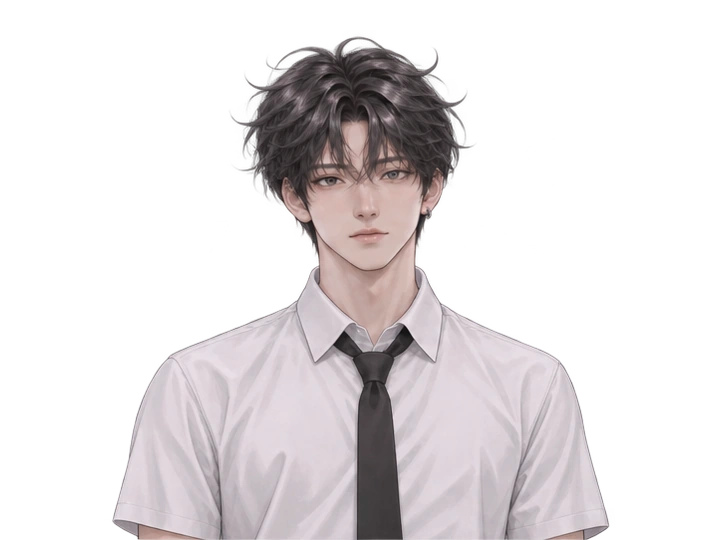
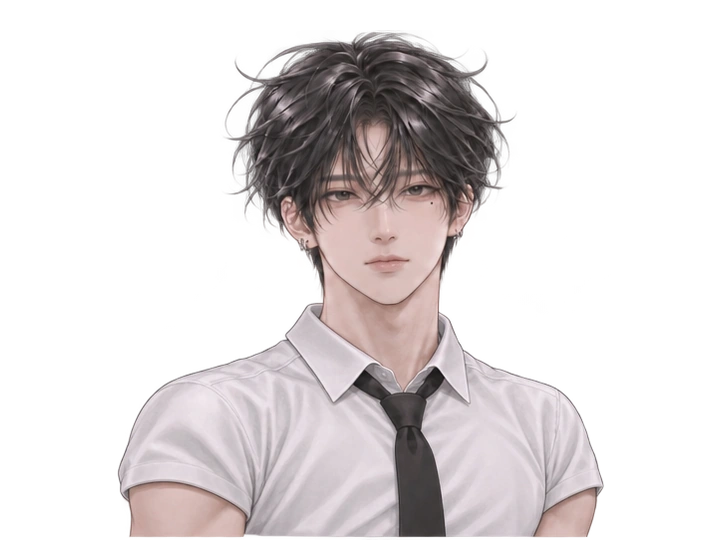
Standardize dialogue portraits and Taei proportions

Changed region(s): [[0.1528, 0.0593, 0.8556, 1.0]]

diff --git a/fantasy-rpg/desktop/ui/scene-stage.js b/fantasy-rpg/desktop/ui/scene-stage.js
@@ -11,30 +11,51 @@ const SceneStage=(()=>{
  const load=async url=>{if(typeof window!=='undefined'&&window.sceneArtAPI&&!url.startsWith('data:')){const r=await window.sceneArtAPI.asset(url);if(!r.ok)throw Error(r.error);url=r.data;}return new Promise((resolve,reject)=>{const im=new Image();im.onload=()=>resolve(im);im.onerror=()=>reject(Error('캐릭터 원화를 불러오지 못했습니다.'));im.src=url;});};
  function headDimensions(cw,ch,cropHeight){return{width:430,height:Math.round(cropHeight*ch/cw)};}
  function identityMode(characterId){return characters[characterId]?'integrated':'none';}
- // Sheet coordinates are measured in each cell as fractions of its width and height.
+ // Each anchor gives the eye midpoint and eye-to-chin distance in source-frame fractions.
  const expressionFraming={
-  'taei-earth-expressions.webp':[.50,.31,.25],
-  'taei-fighter-expressions.webp':[.51,.36,.22],
-  'dogyeom-expressions.png':[.53,.38,.15],
-  'yeogyeong-expressions.png':[.50,.39,.20],
-  'yeogyeong-fantasy-expressions.png':[.50,.38,.20],
-  'seoha-expressions.png':[.51,.37,.16],
+  'taei-earth-expressions.webp':[.51,.32,.22],
+  'taei-fighter-expressions.webp':[.51,.315,.22],
+  'dogyeom-expressions.png':[.53,.38,.18],
+  'yeogyeong-expressions.png':[.535,.37,.22],
+  'yeogyeong-fantasy-expressions.png':[.54,.34,.235],
+  'seoha-expressions.png':[.51,.37,.19],
   'yui-expressions.png':[.55,.39,.22],
   'woojin-expressions.png':[.50,.32,.19],
  };
- function drawExpression(canvas,body,frame){
-  const anchor=expressionFraming[frame.src.split('/').at(-1)];
+ const portraitFraming={
+  ace:[.47,.39,.20],aquila:[.50,.37,.19],ariel:[.52,.40,.18],biscuit:[.51,.355,.145],cheona:[.52,.38,.20],
+  'dogyeom-childhood-friend':[.50,.36,.19],dogyeom:[.51,.35,.19],espada:[.49,.38,.20],
+  evan:[.50,.35,.20],fafnir:[.51,.39,.126],fenri:[.50,.36,.156],halo:[.48,.36,.19],hebnia:[.53,.38,.20],
+  hellenia:[.52,.38,.20],janghwa:[.52,.30,.141],jave:[.50,.36,.20],karin:[.58,.37,.20],
+  kiriel:[.52,.38,.21],lir:[.54,.38,.20],milia:[.55,.40,.20],nadan:[.51,.34,.20],
+  nea:[.49,.40,.18],'nea-travel':[.49,.40,.18],palanus:[.52,.38,.19],rachel:[.51,.36,.20],
+  reginleif:[.53,.39,.235],horin:[.50,.31,.195],restia:[.52,.39,.18],rosie:[.51,.37,.18],
+  selsi:[.50,.30,.22],seoha:[.50,.31,.19],spike:[.54,.43,.20],spina:[.50,.40,.18],
+  taei:[.50,.34,.185],taeo:[.52,.38,.19],trude:[.51,.40,.19],woojin:[.51,.36,.20],
+  yeogyeong:[.50,.34,.22],yui:[.50,.32,.20],yunseol:[.51,.37,.20],
+ };
+ const portraitLayout=Object.freeze({width:600,height:460,eyeLine:196,faceHeight:110});
+ function portraitGeometry(characterId,frame){
+  const file=frame.src.split('/').at(-1);
+  const anchor=expressionFraming[file]||portraitFraming[characterId];
+  const {width,height,eyeLine,faceHeight}=portraitLayout;
   if(!anchor){
-   canvas.width=frame.w;canvas.height=frame.h;
-   canvas.getContext('2d').drawImage(body,frame.x,frame.y,frame.w,frame.h,0,0,frame.w,frame.h);
-   return;
+   const ratio=Math.min(width/frame.w,height/frame.h),w=frame.w*ratio,h=frame.h*ratio;
+   return {inset:0,x:(width-w)/2,y:height-h,w,h};
   }
-  const [x,eyes,face]=anchor;
-  canvas.width=720;canvas.height=540;
-  const height=Math.max(90/face,352/(1-eyes)),width=height*frame.w/frame.h;
-  canvas.getContext('2d').drawImage(body,frame.x,frame.y,frame.w,frame.h,360-x*width,188-eyes*height,width,height);
+  const [eyeX,eyeY,face]=anchor;
+  const h=faceHeight/face,w=h*frame.w/frame.h;
+  // The Earth expression sheet includes a faint line at the edge of each cell.
+  const inset=file==='yeogyeong-expressions.png'?4:0;
+  return {inset,x:width/2-eyeX*w,y:eyeLine-eyeY*h,w,h};
  }
- function sprite(characterId,emotion=0,frame=null){const key=frame?[frame.src,frame.x,frame.y,frame.w,frame.h].join(':'):characterId+':0';if(cache.has(key))return cache.get(key);const task=(async()=>{const body=await load(frame?.src||characters[characterId]),canvas=document.createElement('canvas'),record=(globalThis.StoryKitData?.content?.records||[]).find(r=>characterId===r.id||characterId.startsWith(r.id+'-'));if(frame){drawExpression(canvas,body,frame);}else if(record){const key=characterId===record.id?'default':characterId.slice(record.id.length+1),f=record.looks[key]||record.looks.default;canvas.width=f.w;canvas.height=f.h;canvas.getContext('2d').drawImage(body,f.x,f.y,f.w,f.h,0,0,f.w,f.h);}else if(['nea','nea-travel'].includes(characterId)){const f=NeaData.record.frames[characterId==='nea-travel'?'travel':'poor'];canvas.width=f.w;canvas.height=f.h;canvas.getContext('2d').drawImage(body,f.x,f.y,f.w,f.h,0,0,f.w,f.h);}else{canvas.width=body.naturalWidth||body.width;canvas.height=body.naturalHeight||body.height;canvas.getContext('2d').drawImage(body,0,0);}const url=canvas.toDataURL('image/png');ready.set(key,url);return url;})();cache.set(key,task);task.catch(()=>cache.delete(key));if(cache.size>24){const oldest=cache.keys().next().value;cache.delete(oldest);ready.delete(oldest);}return task;}
+ function drawExpression(canvas,body,frame,characterId){
+  canvas.width=portraitLayout.width;canvas.height=portraitLayout.height;
+  const {x,y,w,h,inset}=portraitGeometry(characterId,frame);
+  canvas.getContext('2d').drawImage(body,frame.x+inset,frame.y+inset,frame.w-2*inset,frame.h-2*inset,
+   x+inset*w/frame.w,y+inset*h/frame.h,w*(1-2*inset/frame.w),h*(1-2*inset/frame.h));
+ }
+ function sprite(characterId,emotion=0,frame=null){const key=frame?[characterId,frame.src,frame.x,frame.y,frame.w,frame.h].join(':'):characterId+':0';if(cache.has(key))return cache.get(key);const task=(async()=>{const body=await load(frame?.src||characters[characterId]),canvas=document.createElement('canvas'),record=(globalThis.StoryKitData?.content?.records||[]).find(r=>characterId===r.id||characterId.startsWith(r.id+'-'));if(frame){drawExpression(canvas,body,{...frame,w:frame.w||body.naturalWidth,h:frame.h||body.naturalHeight},characterId);}else if(record){const key=characterId===record.id?'default':characterId.slice(record.id.length+1),f=record.looks[key]||record.looks.default;canvas.width=f.w;canvas.height=f.h;canvas.getContext('2d').drawImage(body,f.x,f.y,f.w,f.h,0,0,f.w,f.h);}else if(['nea','nea-travel'].includes(characterId)){const f=NeaData.record.frames[characterId==='nea-travel'?'travel':'poor'];canvas.width=f.w;canvas.height=f.h;canvas.getContext('2d').drawImage(body,f.x,f.y,f.w,f.h,0,0,f.w,f.h);}else{canvas.width=body.naturalWidth||body.width;canvas.height=body.naturalHeight||body.height;canvas.getContext('2d').drawImage(body,0,0);}const url=canvas.toDataURL('image/png');ready.set(key,url);return url;})();cache.set(key,task);task.catch(()=>cache.delete(key));if(cache.size>24){const oldest=cache.keys().next().value;cache.delete(oldest);ready.delete(oldest);}return task;}
  function lockPortrait(portrait,characterId,emotion=0){const token=(tokens.get(portrait)||0)+1;tokens.set(portrait,token);if(!characters[characterId]||typeof Image==='undefined'||typeof document==='undefined')return;emotion=Math.max(0,Math.min(5,Number.isInteger(emotion)?emotion:0));if(identityMode(characterId)==='integrated')emotion=0;portrait.dataset.identityMode=identityMode(characterId);const key=characterId+':'+emotion;portrait.style.backgroundSize='contain';portrait.style.backgroundPosition='center bottom';if(ready.has(key)){portrait.style.backgroundImage='url("'+ready.get(key)+'")';portrait.style.visibility='visible';portrait.dataset.faceLocked=String(identityMode(characterId)==='original-head');portrait.dataset.spriteReady='true';return;}portrait.dataset.spriteReady='loading';portrait.style.visibility='hidden';sprite(characterId,emotion).then(url=>{if(tokens.get(portrait)!==token)return;portrait.style.backgroundImage='url("'+url+'")';portrait.style.visibility='visible';portrait.dataset.faceLocked=String(identityMode(characterId)==='original-head');portrait.dataset.spriteReady='true';}).catch(()=>{if(tokens.get(portrait)!==token)return;portrait.style.visibility='visible';portrait.dataset.spriteReady='error';});}
  function render({background,portrait,location,characterId,emotion=0,state=null,era=null,dialogue=false,player=null}){const bg=backgrounds[location]||backgrounds.earth_subway;
   background.style.backgroundImage='url("'+bg+'")';background.style.backgroundSize='cover';background.style.backgroundPosition='center';background.dataset.location=location;background.dataset.cutscene='false';
@@ -42,14 +63,19 @@ const SceneStage=(()=>{
   drawPortrait(portrait,characterId==='taei'&&player?null:characterId,context);
   if(player)drawPortrait(player,dialogue?'taei':null,{...context,emotion:0});
  }
- function drawPortrait(portrait,characterId,{location,emotion,state,era,dialogue}){
-  const earth=CharacterOrigins.isEarth(era,location)||(era!=='fantasy'&&!backgrounds[location]);if(!CharacterOrigins.allowed(characterId,{era:earth?'earth':era,location})){tokens.set(portrait,(tokens.get(portrait)||0)+1);characterId=null;}if(characterId==='nea'&&state&&NeaData.outfit(state)==='travel')characterId='nea-travel';const upperBody=dialogue&&dialogueIds.has(characterId);const portraitFrame=globalThis.StoryKitData?.content?.get?.(characterId)?.portraits?.default;const character=upperBody?(portraitFrame?.src||'assets/dialogue/'+characterId+'.webp'):characters[characterId];portrait.hidden=!character;portrait.dataset.character=characterId||'';portrait.dataset.emotion=String(emotion);portrait.dataset.framing=upperBody?'upper-body':'full';portrait.style.backgroundImage=character?'url("'+character+'")':'none';portrait.style.backgroundSize='contain';portrait.style.backgroundPosition='center bottom';portrait.style.backgroundRepeat='no-repeat';portrait.style.border='none';portrait.style.outline='none';portrait.setAttribute('aria-label',characterId?({...Object.fromEntries((globalThis.StoryKitData?.content?.records||[]).map(r=>[r.id,r.unknownName])),taei:'김태이',nea:'네아','nea-travel':'네아',yui:'한유이',yeogyeong:'차여경',seoha:'윤서하','dogyeom-childhood-friend':'임소윤'})[characterId]||'등장 인물':'등장 인물 없음');if(upperBody){tokens.set(portrait,(tokens.get(portrait)||0)+1);portrait.style.visibility='visible';portrait.dataset.spriteReady='true';
-    const frame=globalThis.StoryKitData?.content?.dialogueFrame?.(characterId,earth?'지구':'이세계',emotion);
+ function drawPortrait(portrait,characterId,{location,emotion=0,state,era,dialogue}){
+  const earth=CharacterOrigins.isEarth(era,location)||(era!=='fantasy'&&!backgrounds[location]);if(!CharacterOrigins.allowed(characterId,{era:earth?'earth':era,location})){tokens.set(portrait,(tokens.get(portrait)||0)+1);characterId=null;}if(characterId==='nea'&&state&&NeaData.outfit(state)==='travel')characterId='nea-travel';const upperBody=dialogue&&dialogueIds.has(characterId);const portraitFrame=globalThis.StoryKitData?.content?.get?.(characterId)?.portraits?.default;const character=upperBody?(portraitFrame?.src||'assets/dialogue/'+characterId+'.webp'):characters[characterId];portrait.hidden=!character;portrait.dataset.character=characterId||'';portrait.dataset.emotion=String(emotion);portrait.dataset.framing=upperBody?'upper-body':'full';portrait.style.backgroundImage=character?'url("'+character+'")':'none';portrait.style.backgroundSize='contain';portrait.style.backgroundPosition='center bottom';portrait.style.backgroundRepeat='no-repeat';portrait.style.border='none';portrait.style.outline='none';portrait.setAttribute('aria-label',characterId?({...Object.fromEntries((globalThis.StoryKitData?.content?.records||[]).map(r=>[r.id,r.unknownName])),taei:'김태이',nea:'네아','nea-travel':'네아',yui:'한유이',yeogyeong:'차여경',seoha:'윤서하','dogyeom-childhood-friend':'임소윤'})[characterId]||'등장 인물':'등장 인물 없음');if(upperBody){tokens.set(portrait,(tokens.get(portrait)||0)+1);portrait.style.visibility='hidden';portrait.dataset.spriteReady='loading';
+    const frame=globalThis.StoryKitData?.content?.dialogueFrame?.(characterId,earth?'지구':'이세계',emotion)||{src:character,x:0,y:0};
     const token=tokens.get(portrait),fallback=portrait.style.backgroundImage;
-    if(frame)sprite(characterId,emotion,frame).then(url=>{
-      if(tokens.get(portrait)===token&&portrait.dataset.framing==='upper-body'&&portrait.style.backgroundImage===fallback)portrait.style.backgroundImage='url("'+url+'")';
-    }).catch(()=>{});
+    sprite(characterId,emotion,frame).then(url=>{
+      if(tokens.get(portrait)!==token)return;
+      if(portrait.style.backgroundImage===fallback)portrait.style.backgroundImage='url("'+url+'")';
+      portrait.style.visibility='visible';portrait.dataset.spriteReady='true';
+    }).catch(()=>{
+      if(tokens.get(portrait)!==token)return;
+      portrait.style.visibility='visible';portrait.dataset.spriteReady='error';
+    });
   }else lockPortrait(portrait,characterId,emotion);}
  function cutscene(background,portrait,url,panel,player){background.style.backgroundImage='url("'+url+'")';background.style.backgroundSize=panel===undefined?'cover':'200% 100%';background.style.backgroundPosition=panel===undefined?'center':panel*100+'% center';background.dataset.cutscene='true';portrait.hidden=true;if(player)player.hidden=true;}
- return {render,cutscene,backgrounds,characters,faces,lockPortrait,headDimensions,identityMode};
+ return {render,cutscene,backgrounds,characters,faces,lockPortrait,headDimensions,identityMode,portraitLayout,portraitGeometry,drawPortrait};
 })();

diff --git a/fantasy-rpg/desktop/ui/district/style.css b/fantasy-rpg/desktop/ui/district/style.css
@@ -1,3 +1,3 @@
-.district-root{position:fixed;inset:0;z-index:80;background:#25382f;color:#f1e6ce;overflow:hidden;isolation:isolate;font-family:'Noto Sans KR',sans-serif}.district-canvas{position:absolute;inset:0;width:100%;height:100%;touch-action:none}.district-nav{position:absolute;inset:0 0 auto;display:flex;justify-content:space-between;align-items:flex-start;gap:16px;padding:25px 30px;background:linear-gradient(#132624db,transparent);pointer-events:none}.district-nav strong{display:block;font:24px 'Noto Serif KR',serif;letter-spacing:.08em}.district-nav small{display:block;color:#c8c9b4;font-size:11px;letter-spacing:.12em;margin-top:7px}.district-tools{display:flex;gap:8px;flex-wrap:wrap;pointer-events:auto;justify-content:flex-end}.district-root button,.district-root select{background:#152a24e8;color:#ebdfc4;border:1px solid #e0ca8e45;padding:10px 15px;border-radius:3px;font-size:13px}.district-root button:hover{background:#2c4236}.district-root button:focus-visible,.district-root select:focus-visible{outline:2px solid #e8c88d;outline-offset:3px}.district-root button:disabled{opacity:.45}.district-footer{position:absolute;inset:auto 0 0;display:flex;align-items:center;gap:14px;flex-wrap:wrap;padding:23px 30px;background:linear-gradient(transparent,#12231be8);pointer-events:none}.district-footer p{margin:0;flex:1;min-width:220px;font-size:12px;color:#d7ddc6}.district-footer button,.district-footer select{pointer-events:auto}.district-vn{position:absolute;inset:0;z-index:4;background:#0a17283d;animation:district-reveal .2s ease-out}.district-vn-box{position:absolute;left:10%;right:8%;bottom:7%;padding:26px 32px;background:#101f1bf5;border-top:1px solid #ddc68d75;box-shadow:0 20px 70px #08120c55}.district-vn-box>strong{font:23px 'Noto Serif KR',serif;color:#e3c58e}.district-vn-box>p{font:21px/1.9 'Noto Serif KR',serif;white-space:pre-wrap;min-height:65px;margin:16px 0 20px}.district-vn-box small{font-size:11px;color:#afb9a5}.district-choices{display:flex;gap:10px;flex-wrap:wrap;margin-bottom:12px}.district-choices button{background:#293d30;font-size:14px;text-align:left}.district-vn-portrait{position:absolute;right:12%;top:8%;height:58%;width:29%;background-repeat:no-repeat;background-position:center bottom;background-size:contain}.district-vn-portrait.yeogyeong{background-size:370% 100%;background-position:87% bottom}.district-vn-portrait.yui{width:min(45%,520px);height:55%;aspect-ratio:1;background-size:200% 100%;background-position:100% bottom}.district-speaking .district-footer,.district-speaking .district-nav{visibility:hidden}@keyframes district-reveal{from{opacity:0}to{opacity:1}}@media(max-width:650px){.district-nav{padding:18px 15px}.district-nav strong{font-size:18px}.district-tools{gap:5px;max-width:210px}.district-root button,.district-root select{padding:10px;font-size:12px}.district-footer{padding:15px;gap:8px}.district-footer p{flex-basis:100%;font-size:11px}.district-vn-box{left:4%;right:4%;bottom:4%;padding:20px}.district-vn-box>p{font-size:17px;line-height:1.8}.district-vn-portrait{width:44%;right:8%;height:52%;top:5%}.district-vn-portrait.yui{width:68%;height:45%;right:6%}.district-choices{display:grid;gap:8px}}@media(prefers-reduced-motion:reduce){.district-vn{animation:none}}
+.district-root{position:fixed;inset:0;z-index:80;background:#25382f;color:#f1e6ce;overflow:hidden;isolation:isolate;font-family:'Noto Sans KR',sans-serif}.district-canvas{position:absolute;inset:0;width:100%;height:100%;touch-action:none}.district-nav{position:absolute;inset:0 0 auto;display:flex;justify-content:space-between;align-items:flex-start;gap:16px;padding:25px 30px;background:linear-gradient(#132624db,transparent);pointer-events:none}.district-nav strong{display:block;font:24px 'Noto Serif KR',serif;letter-spacing:.08em}.district-nav small{display:block;color:#c8c9b4;font-size:11px;letter-spacing:.12em;margin-top:7px}.district-tools{display:flex;gap:8px;flex-wrap:wrap;pointer-events:auto;justify-content:flex-end}.district-root button,.district-root select{background:#152a24e8;color:#ebdfc4;border:1px solid #e0ca8e45;padding:10px 15px;border-radius:3px;font-size:13px}.district-root button:hover{background:#2c4236}.district-root button:focus-visible,.district-root select:focus-visible{outline:2px solid #e8c88d;outline-offset:3px}.district-root button:disabled{opacity:.45}.district-footer{position:absolute;inset:auto 0 0;display:flex;align-items:center;gap:14px;flex-wrap:wrap;padding:23px 30px;background:linear-gradient(transparent,#12231be8);pointer-events:none}.district-footer p{margin:0;flex:1;min-width:220px;font-size:12px;color:#d7ddc6}.district-footer button,.district-footer select{pointer-events:auto}.district-vn{position:absolute;inset:0;z-index:4;background:#0a17283d;animation:district-reveal .2s ease-out}.district-vn-box{position:absolute;left:10%;right:8%;bottom:7%;padding:26px 32px;background:#101f1bf5;border-top:1px solid #ddc68d75;box-shadow:0 20px 70px #08120c55}.district-vn-box>strong{font:23px 'Noto Serif KR',serif;color:#e3c58e}.district-vn-box>p{font:21px/1.9 'Noto Serif KR',serif;white-space:pre-wrap;min-height:65px;margin:16px 0 20px}.district-vn-box small{font-size:11px;color:#afb9a5}.district-choices{display:flex;gap:10px;flex-wrap:wrap;margin-bottom:12px}.district-choices button{background:#293d30;font-size:14px;text-align:left}.district-vn-portrait{position:absolute;right:8%;top:6%;height:60%;width:44%;background-repeat:no-repeat;background-position:center bottom;background-size:contain}.district-speaking .district-footer,.district-speaking .district-nav{visibility:hidden}@keyframes district-reveal{from{opacity:0}to{opacity:1}}@media(max-width:650px){.district-nav{padding:18px 15px}.district-nav strong{font-size:18px}.district-tools{gap:5px;max-width:210px}.district-root button,.district-root select{padding:10px;font-size:12px}.district-footer{padding:15px;gap:8px}.district-footer p{flex-basis:100%;font-size:11px}.district-vn-box{left:4%;right:4%;bottom:4%;padding:20px}.district-vn-box>p{font-size:17px;line-height:1.8}.district-vn-portrait{width:44%;right:8%;height:52%;top:5%}.district-choices{display:grid;gap:8px}}@media(prefers-reduced-motion:reduce){.district-vn{animation:none}}
 
 .district-world-label{position:absolute;z-index:2;transform:translate(-50%,-100%);padding:7px 12px;background:#11241ee8;color:#f2dfb8;border-radius:3px;font-size:13px;pointer-events:none;white-space:nowrap}

diff --git a/fantasy-rpg/desktop/ui/district/ui.js b/fantasy-rpg/desktop/ui/district/ui.js
@@ -34,7 +34,11 @@ function open(story=null,{visual=null}={}){current?.close();const M=r.DistrictMo
  else if(target.id==='shop')show('천막 아래 약초와 작은 여행용품이 진열되어 있다. 유리병 사이로 등불이 반짝인다.',[['진열대를 살펴본다.',()=>show('식량과 밧줄, 등불 같은 물건이 보인다. 상품 거래는 아직 연결하지 않은 제작 구간이다.',[['거리로 돌아간다.',resume]])],['둘러보고 돌아간다.',resume]]);
  else if(target.id==='guild')show('문 위에 협회 문장이 걸려 있다. 안쪽에서 종이를 넘기는 소리와 낮은 말소리가 들린다.',[['입구 안내문을 읽는다.',()=>show('의뢰 접수와 보고를 받는 곳이다. 이 거리의 실제 게시판 연결과 내부 공간은 다음 제작 단계다.',[['거리로 돌아간다.',resume]])],['거리를 더 둘러본다.',resume]]);
  else show('분수의 물결에 등불이 잘게 부서진다. 돌바닥 위로 작은 물소리가 이어진다.',[['잠시 바라본 뒤 돌아선다.',resume]]);
- if(['yeogyeong','yui'].includes(target.id)){const portrait=document.createElement('div');portrait.className='district-vn-portrait '+target.id;portrait.setAttribute('aria-label',target.name+' 기존 일러스트');portrait.style.backgroundImage='url("assets/'+(target.id==='yui'?'yui-cutscenes.png':'yeogyeong-fantasy-outfit.png')+'")';dialogue.prepend(portrait);}
+ if(npcs.includes(target)){
+  const portrait=document.createElement('div');portrait.className='district-vn-portrait';
+  SceneStage.drawPortrait(portrait,target.id,{era:'fantasy',dialogue:true});
+  dialogue.prepend(portrait);
+ }
  }
  function approach(target){if(dialogue)return;keys.clear();if(map.nearest([target],1.25)){talk(target);return;}const candidates=[];if(map.free(target.x,target.y))candidates.push({x:target.x,y:target.y});else for(const [dx,dy]of[[1,0],[-1,0],[0,1],[0,-1]])if(map.free(target.x+dx,target.y+dy))candidates.push({x:target.x+dx,y:target.y+dy});const plans=candidates.map(p=>({p,path:map.path(p.x,p.y)})).filter(v=>v.path!==null).sort((a,b)=>a.path.length-b.path.length);if(!plans.length){status.textContent='가까이 갈 수 있는 길을 찾지 못했습니다.';return;}if(map.go(plans[0].p.x,plans[0].p.y)){pending=target;status.textContent=target.name+' 쪽으로 이동 중';}}
  destinations.onchange=()=>{const t=targets.find(t=>t.id===destinations.value);if(t)approach(t);destinations.value='';};interact.onclick=()=>{if(dialogue)return;const t=map.nearest(targets,1.4);if(t)talk(t);else status.textContent='인물이나 출입구 가까이에서 상호작용해 주세요.';};

diff --git a/fantasy-rpg/desktop/ui/responsive-shell.css b/fantasy-rpg/desktop/ui/responsive-shell.css
@@ -45,22 +45,22 @@
  z-index:1;
  pointer-events:none;
  min-height:0;
- margin:clamp(64px,12vh,120px) 5% 0;
+ margin:clamp(50px,9vh,100px) 3% 0;
 }
 .scene-actors>#scene-player,.scene-actors>#scene-portrait{
  position:absolute;
  top:0;
  bottom:0;
- width:42%;
- max-width:460px;
+ width:49%;
+ max-width:640px;
  height:auto;
  background-repeat:no-repeat;
  background-position:center bottom;
  background-size:contain;
  filter:drop-shadow(0 8px 8px #0005);
 }
-.scene-actors>#scene-player{left:2%}
-.scene-actors>#scene-portrait{right:2%}
+.scene-actors>#scene-player{left:0}
+.scene-actors>#scene-portrait{right:0}
 .app>main .scene .dialogue-wrap{
  position:relative;
  grid-row:2;
@@ -91,7 +91,7 @@
 .scene .dialogue-footer{margin-top:3px}
 @media(max-width:560px){
  .scene-actors{margin-inline:2%}
- .scene-actors>#scene-player,.scene-actors>#scene-portrait{width:48%}
+ .scene-actors>#scene-player,.scene-actors>#scene-portrait{width:50%}
  .app>main .scene .dialogue-wrap{width:96%;padding:6px}
  .scene #chat-form{flex-wrap:wrap}
  .scene #story-chat-mode{flex:0 0 100%;flex-direction:row}

diff --git a/docs/ui-direction.md b/docs/ui-direction.md
@@ -6,6 +6,12 @@
 
 ## 현재 확정 그림체 기준 · 2026-11-10
 
+### 대화 원화 공통 크기 기준
+
+장면 배경에 합성하는 일반 비율 대화 초상화는 공통 표시 칸을 사용한다. 인물마다 눈의 중심과 눈에서 턱까지 거리를 원본에서 확인하고, 화면의 눈높이와 얼굴 표시 길이를 일치시킨다. 파일의 가로나 높이가 같아도 투명 여백이 다르면 인물 크기를 다시 확인한다. 파프니르와 장화처럼 원본에서 인물이 작게 그려진 경우에도 같은 기준을 적용한다.
+
+같은 인물의 표정, 복장, 시대별 원화는 기본 원화의 얼굴, 목 길이, 맨어깨 폭과 체형을 공유한다. 갑옷과 겉옷의 두께는 의상에서만 표현한다. 원화 가장자리의 배경색과 시트 칸 테두리가 장면에 나타나지 않는지 어두운 배경과 밝은 배경에서 확인한다. SD와 고유한 신체 구조를 가진 존재는 해당 연출 비율을 따른다.
+
 사용자가 이번 대화에 첨부한 남녀 캐릭터 참고 이미지 11장의 공통 시각 언어를 향후 인물 원화·표정·전신·이벤트 일러스트의 기준으로 사용한다. 이 기준은 앞선 여성 감염체의 사실적인 회화 질감 실험보다 우선한다. 모델 가중치를 재학습했다는 뜻은 아니며, 기존 이미지 전체를 이미 교체한 것도 아니다. 첨부 원본은 현재 저장소에 복사되어 있지 않으므로 아래 분석을 지속 가능한 제작 기준으로 보관한다.
 
 - **선화:** 가늘고 선명한 윤곽선에 부분적인 굵기 차이를 준다. 머리카락과 눈·속눈썹은 섬세하게, 옷 주름은 방향과 구조가 읽히게 그린다.

diff --git a/fantasy-rpg/desktop/README.md b/fantasy-rpg/desktop/README.md
@@ -1,4 +1,13 @@
 <!-- release-summary:start -->
+# v0.42.96 · 대화 초상화 크기 통일
+
+- 같은 눈높이와 얼굴 표시 길이로 초상화를 합성하고, 대화 장면에서 인물을 더 크게 표시합니다.
+- 차여경의 지구 표정 시트에서 밝은 칸 테두리를 제외합니다. 파프니르와 장화 등 원화의 실제 인물 크기를 기준으로 배율을 조정합니다.
+- 김태이 교복 표정을 이세계 격투가의 얼굴과 체형을 기준으로 다시 맞췄습니다.
+- Windows x64 전체 실행본을 제공합니다. 실제 기기 플레이와 실계정 API 응답은 별도 검수 대상입니다.
+
+<!-- release-summary:end -->
+
 # v0.42.95 · 전신 원화 표시와 김태이 복장
 
 - 상단에 이야기·캐릭터·시스템 메뉴를 묶고 검은색으로 단순화했습니다. 직접 이동과 빠른 저장은 상단에서 바로 사용할 수 있습니다.
@@ -7,7 +16,6 @@
 - 태오와 레긴레이프 등 여백이 큰 전신 원화는 인물 실루엣에 맞춰 표시합니다.
 - 기존 도감에 빠져 있던 후면 전신, 일상복, 컷신 일부를 보강했습니다. 기존 Windows 설치가 필요 없는 x64 전체 실행본을 제공하며 Windows 기기에서 플레이하는 검수는 별도입니다.
 
-<!-- release-summary:end -->
 
 # v0.42.94 · 비스킷과 임소윤 원화 수정
 
